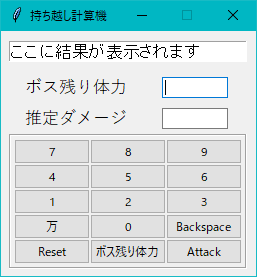
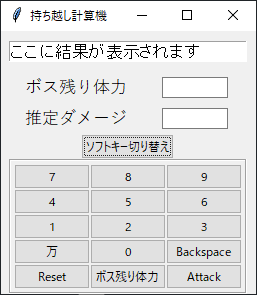
make it better

diff --git a/README.md b/README.md
@@ -1,12 +1,51 @@
 # プリコネ持ち越し計算機
 
 Princess Connect Re:Dive のクランバトル用ツール。
-**同時凸時**にボスの体力とダメージを入力すると、体力が残るなら残り体力を、残らないなら持ち越しの時間を表示します。
+
+**同時凸時**にボスの体力とダメージを入力すると、持ち越し時間の計算が行えます。
 
 ## 使い方
 
-python 3.6 以上の環境で実行
+python 3.7 以上の環境で実行
 
-## Screen Shot
+### 操作説明
+
+#### キーボード操作
+
+数字キーで入力します。
+
+タブ (Tab) または演算子 (+ - * /) で入力箇所を切替します。
+
+バックスペース (←) で一文字消します。
+
+ピリオド (.) でリセットします。
+
+Enterで計算します。
+
+数字以外も入力できてしまうので注意。そのまま計算するとエラーが出ます。
+エラー表示が出た場合リセットしてください。
+
+#### マウス操作
+
+入力箇所を右クリックすると選択できます。
+ソフトキー切り替えボタンを右クリックすると、ソフトキーの表示切替ができます。
+
+##### ソフトキー説明
+
+- `万` 現在の入力箇所の数字を1万倍します。
+
+- `Attack` 計算します。
+
+- `ボス残り体力` 現在の入力箇所を表示しています。ここをクリックしても入力箇所を切替できます。
+
+#### 計算について
+
+残りHPがダメージを上回る場合、ダメージを差し引いた値が表示され、残り体力の入力された値もその値に更新されます。
+
+2、3人で凸る時は、1人目が確定、2人目が確定といった具合の計算の仕方を、ダメージを入力していくだけで楽に行えます。
+
+ダメージが残りHPを上回る場合、持ち越し時間が表示されます。
+
+### Screen Shot
 
 ![スクショ](ss.png)
